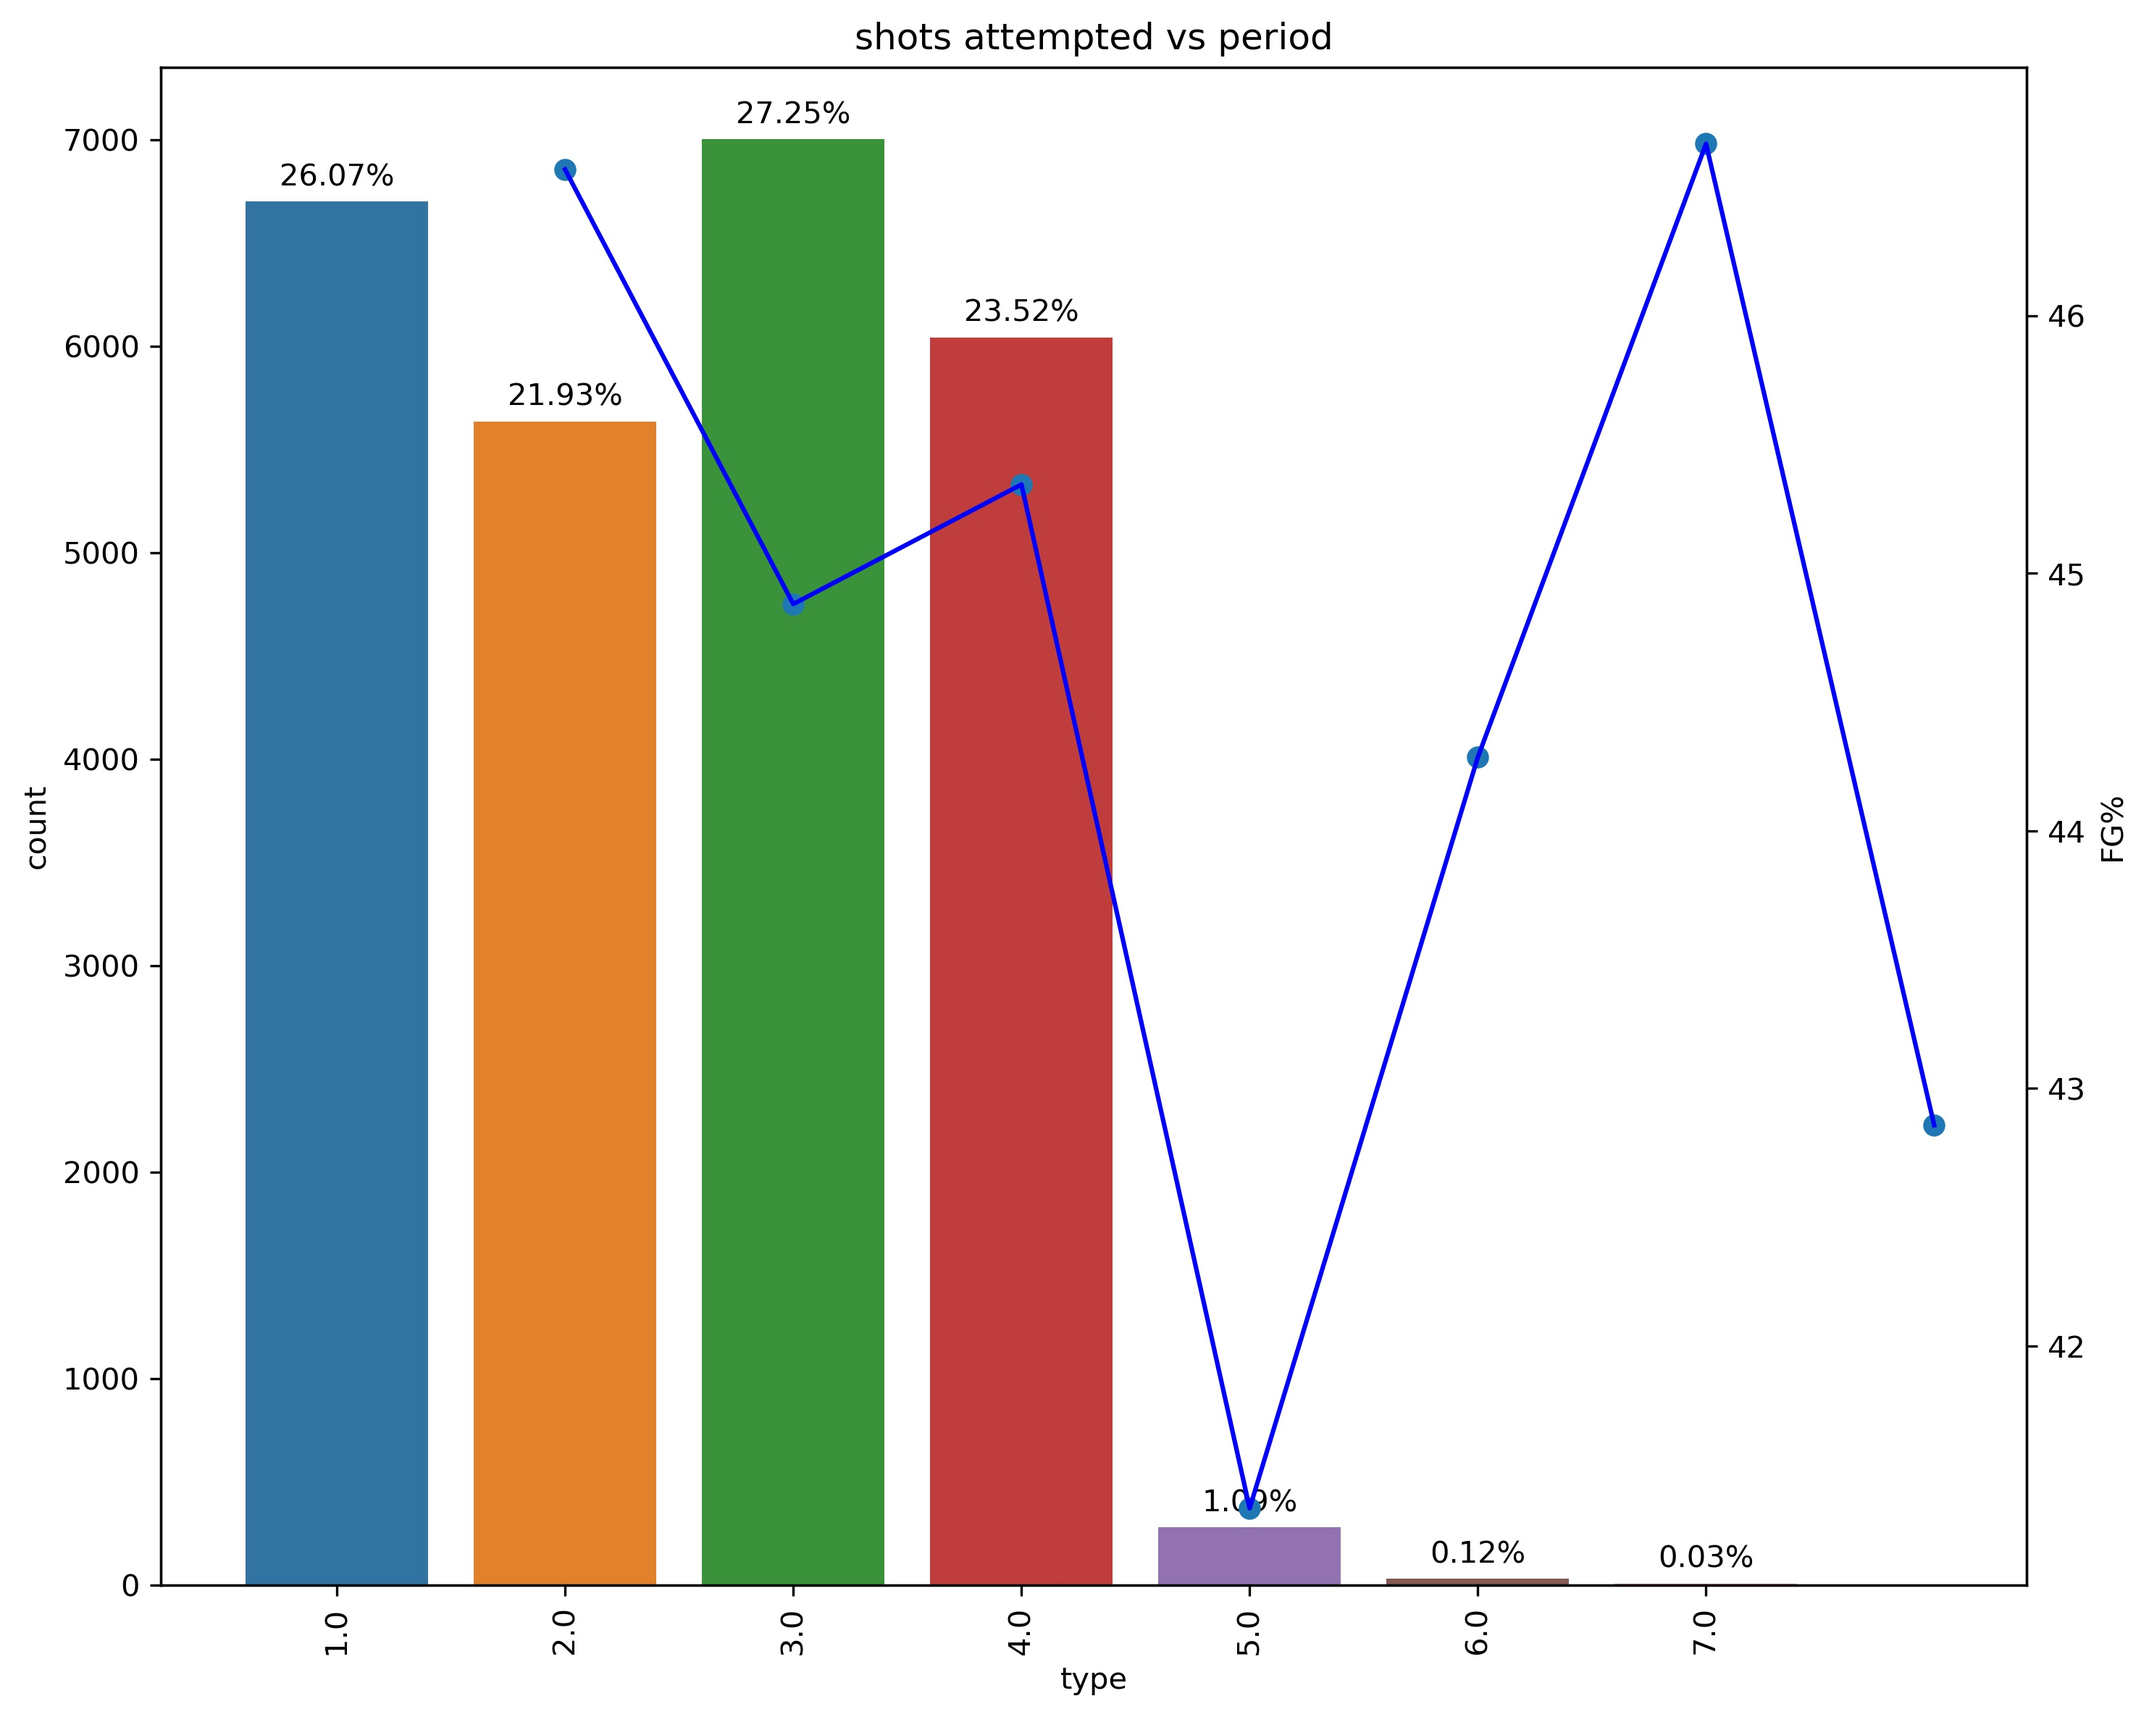
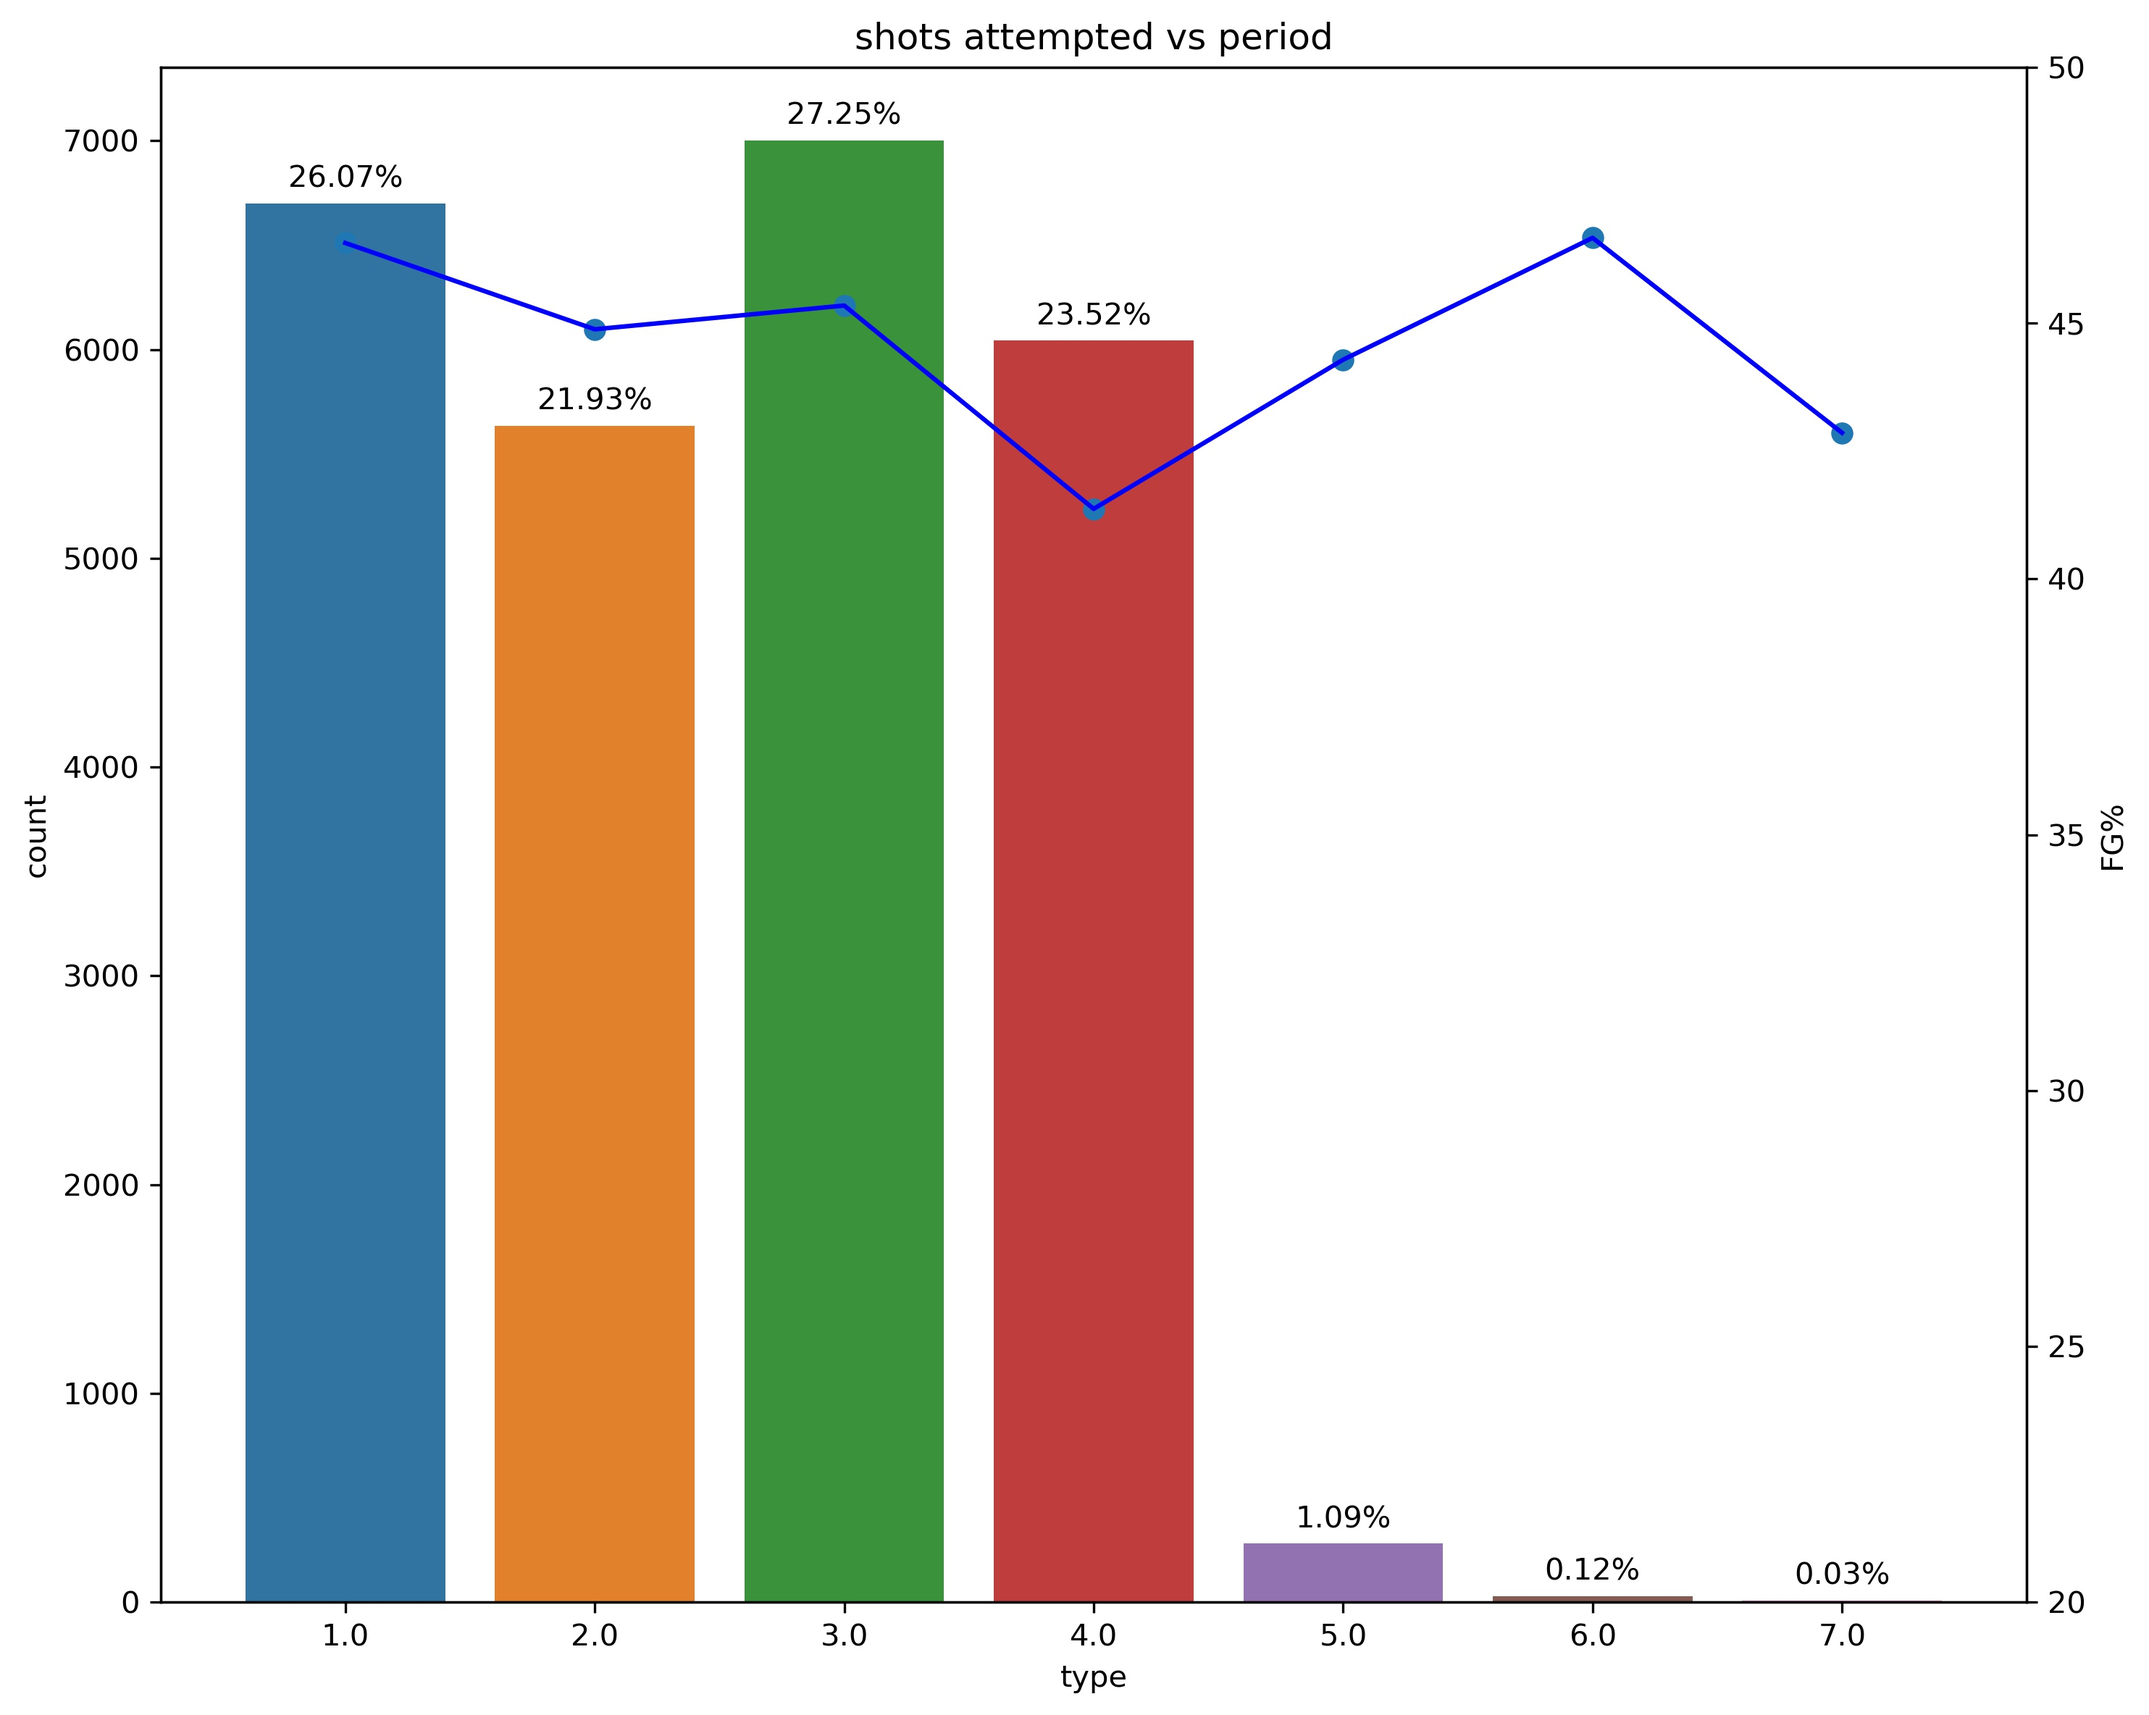
1

diff --git a/6202_project_pranay.py b/6202_project_pranay.py
@@ -249,6 +249,7 @@ plt.savefig('Graphs/7.jpeg', dpi=300, bbox_inches='tight')
 plt.show()
 
 # 8. shots vs period
+
 periods=list(data1['period'].unique())
 shots_percent=[]
 for i in periods:
@@ -269,11 +270,15 @@ for bar in plots.patches:
                    textcoords='offset points')
     z=z+1
 
-ax2.plot(plot_df1['type'], plot_df1['eff'], 'b-')
-ax2.scatter(plot_df1['type'], plot_df1['eff'],s=40)
+l1=np.array(list(periods))-1
+ax2.plot(l1, plot_df1['eff'], 'b-')
+ax2.scatter(l1, plot_df1['eff'],s=40)
 ax2.set_ylabel('FG%')
+ax2.set_ylim([20,50])
 plt.title('shots attempted vs period')
-ax1.set_xticklabels(labels=plot_df1['type'],rotation=90)
+ax1.set_xticklabels(labels=plot_df1['type'])
 plt.tight_layout()
 plt.savefig('Graphs/8.jpeg', dpi=300, bbox_inches='tight')
 plt.show()
+
+
